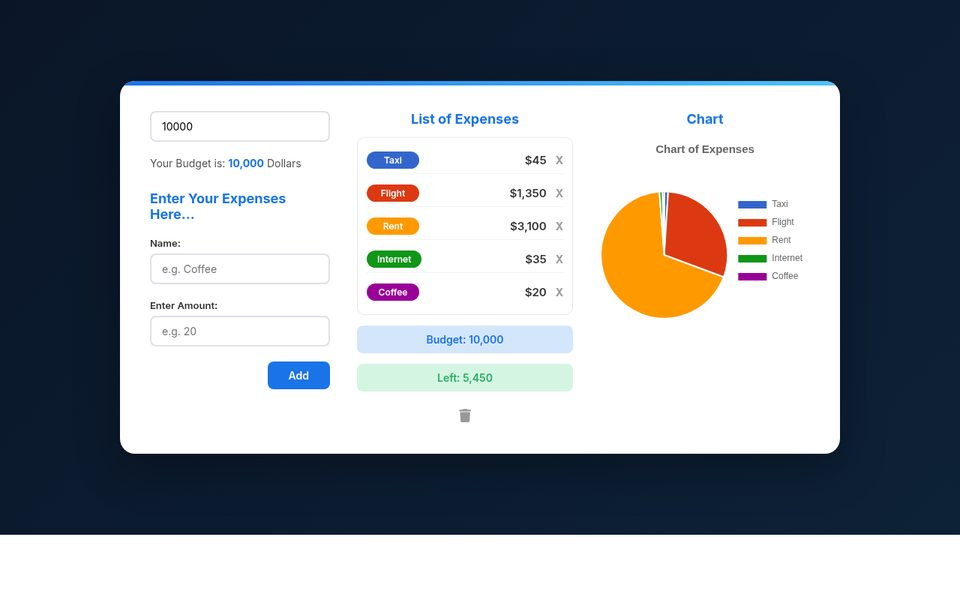
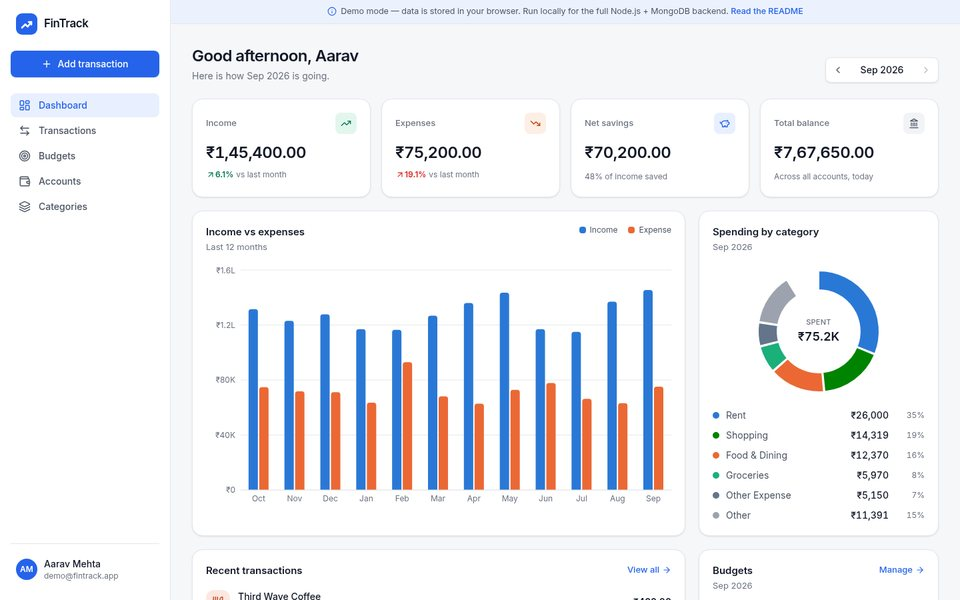
Update project cards for the full-stack FinTrack, Task Master and Weather Wiz rebuilds

diff --git a/index.html b/index.html
@@ -285,8 +285,8 @@
             <a class="cover-link" data-cursor="View" href="https://harsh3851.github.io/FinTrack/" target="_blank" rel="noopener" tabindex="-1" aria-hidden="true"><img class="cover-img" src="images/fintrack.jpg" alt="" width="960" height="600" loading="lazy"></a>
             <div class="project-body">
               <h3>FinTrack</h3>
-              <p>Budget tracker with category-wise expense entry, running totals and a Chart.js breakdown of spending.</p>
-              <ul class="chips"><li>JavaScript</li><li>Chart.js</li><li>CSS3</li></ul>
+              <p>Full-stack personal finance tracker: wallets, transactions with server-side filtering and search, monthly budgets with over-budget alerts, trend and category charts and CSV export, all in INR. JWT auth with rotating refresh tokens and 57 automated tests.</p>
+              <ul class="chips"><li>React</li><li>TypeScript</li><li>Node.js</li><li>Express</li><li>MongoDB</li><li>JWT</li><li>Vitest</li></ul>
               <div class="project-links"><a class="link" href="https://harsh3851.github.io/FinTrack/" target="_blank" rel="noopener">Live demo <svg class="icon" aria-hidden="true"><use href="#i-external"/></svg></a><a class="link" href="https://github.com/Harsh3851/FinTrack" target="_blank" rel="noopener"><svg class="icon icon-fill" aria-hidden="true"><use href="#i-github"/></svg> Source</a></div>
             </div>
           </article>
@@ -295,8 +295,8 @@
             <a class="cover-link" data-cursor="View" href="https://harsh3851.github.io/Task-Master/" target="_blank" rel="noopener" tabindex="-1" aria-hidden="true"><img class="cover-img" src="images/taskmaster.jpg" alt="" width="960" height="600" loading="lazy"></a>
             <div class="project-body">
               <h3>Task Master</h3>
-              <p>Task dashboard with summary cards, a dynamic task table and status charts, laid out like an internal tool.</p>
-              <ul class="chips"><li>JavaScript</li><li>Chart.js</li><li>CSS Grid</li></ul>
+              <p>Team task manager in the style of Linear: projects with owner and member roles, a drag-and-drop Kanban board with optimistic updates, list view with filters, comments, activity log, dashboard and keyboard shortcuts. 57 automated tests including role checks.</p>
+              <ul class="chips"><li>React</li><li>TypeScript</li><li>Node.js</li><li>Express</li><li>MongoDB</li><li>dnd-kit</li><li>RBAC</li></ul>
               <div class="project-links"><a class="link" href="https://harsh3851.github.io/Task-Master/" target="_blank" rel="noopener">Live demo <svg class="icon" aria-hidden="true"><use href="#i-external"/></svg></a><a class="link" href="https://github.com/Harsh3851/Task-Master" target="_blank" rel="noopener"><svg class="icon icon-fill" aria-hidden="true"><use href="#i-github"/></svg> Source</a></div>
             </div>
           </article>
@@ -305,8 +305,8 @@
             <a class="cover-link" data-cursor="View" href="https://harsh3851.github.io/Weather-Wiz/" target="_blank" rel="noopener" tabindex="-1" aria-hidden="true"><img class="cover-img" src="images/weatherwiz.jpg" alt="" width="960" height="600" loading="lazy"></a>
             <div class="project-body">
               <h3>Weather Wiz</h3>
-              <p>Weather lookup with hourly and five-day forecasts in a minimal interface.</p>
-              <ul class="chips"><li>JavaScript</li><li>HTML5</li><li>CSS3</li></ul>
+              <p>Live weather dashboard on Open-Meteo data: city autocomplete, hourly and 14-day forecasts, air quality, saved places and unit preferences. The Node.js API caches upstream calls in MongoDB with TTL indexes and serves stale data if the provider fails. 64 automated tests.</p>
+              <ul class="chips"><li>React</li><li>TypeScript</li><li>Node.js</li><li>Express</li><li>MongoDB</li><li>Caching</li></ul>
               <div class="project-links"><a class="link" href="https://harsh3851.github.io/Weather-Wiz/" target="_blank" rel="noopener">Live demo <svg class="icon" aria-hidden="true"><use href="#i-external"/></svg></a><a class="link" href="https://github.com/Harsh3851/Weather-Wiz" target="_blank" rel="noopener"><svg class="icon icon-fill" aria-hidden="true"><use href="#i-github"/></svg> Source</a></div>
             </div>
           </article>
